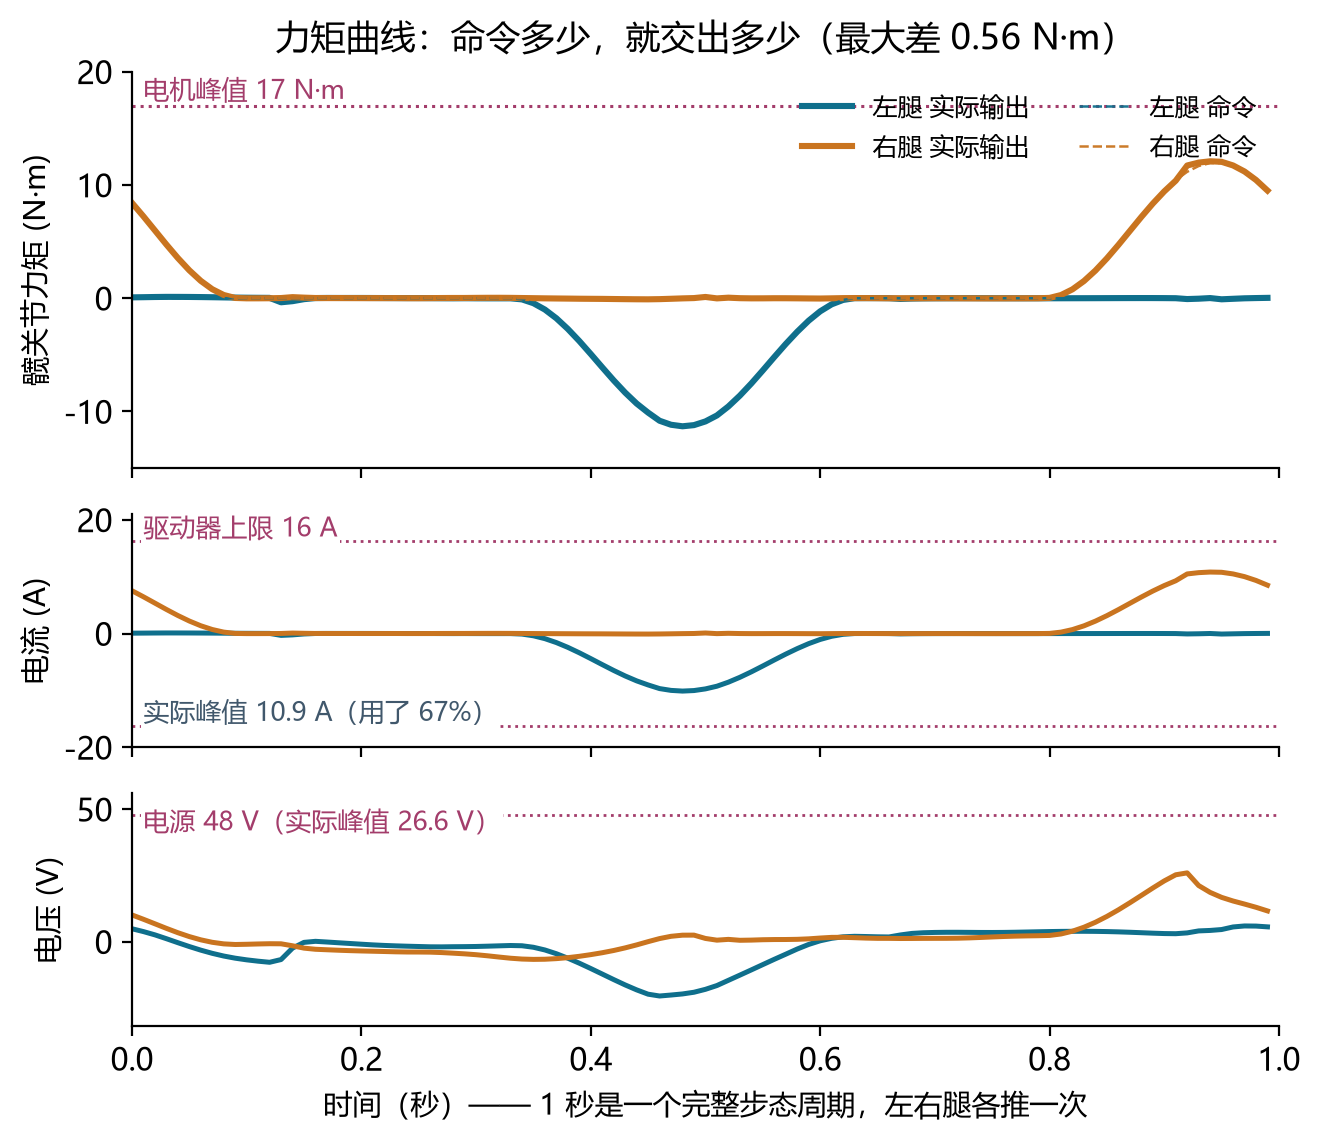
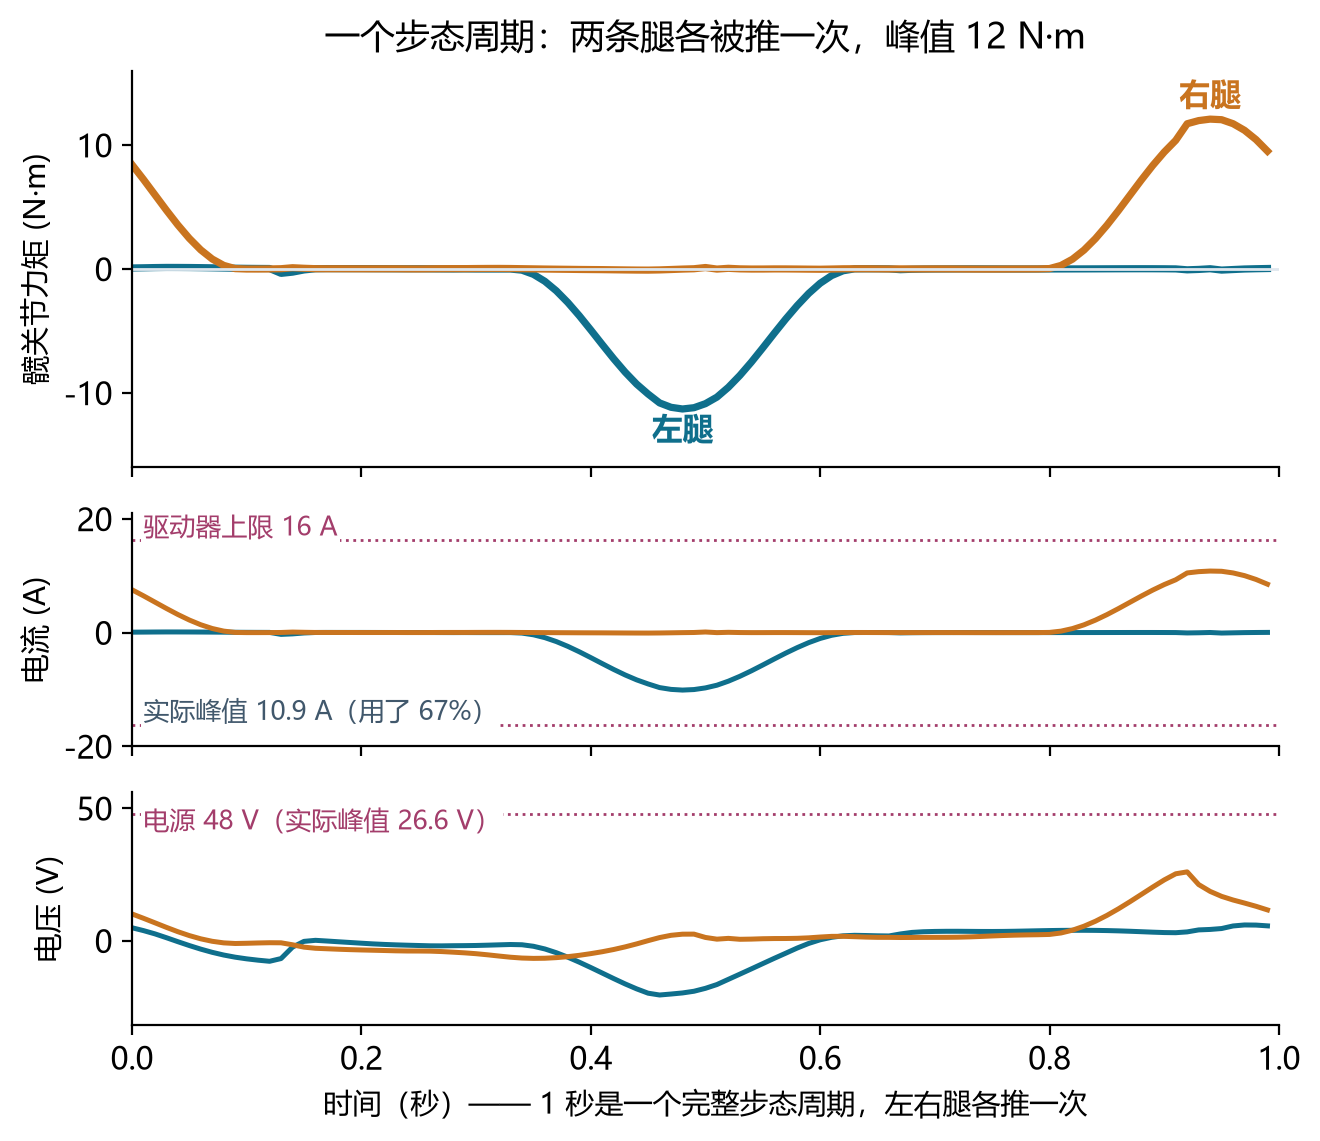
docs: 力矩图去掉命令线，力矩-转速图重画
第一张只画实际交付的力矩，两条腿直接标在曲线上，不再画命令虚线和图例；命令跟随误差
(0.56 N·m) 从正文里去掉，需要时看代码里的日志。

第二张原来有一条没有意义的竖虚线、两处箭头和满屏标注。改成：能力区域淡色填充 + 一条
连续的能力线，运行点小点，只留两处说明（17 N·m 是限流、410 转/分是空载），刻度取整。

diff --git a/scripts/make_figures.py b/scripts/make_figures.py
@@ -59,16 +59,18 @@ def curve(out):
     fig, axs = plt.subplots(3, 1, figsize=(7.4, 6.2), sharex=True,
                             gridspec_kw={"height_ratios": [1.7, 1, 1], "hspace": 0.16})
     ax = axs[0]
-    ax.plot(t, got[:, 0], color=BLUE, lw=2.2, label="左腿 实际输出")
-    ax.plot(t, got[:, 1], color=ORANGE, lw=2.2, label="右腿 实际输出")
-    ax.plot(t, cmd[:, 0], ls="--", color=BLUE, lw=0.9, alpha=0.95, label="左腿 命令")
-    ax.plot(t, cmd[:, 1], ls="--", color=ORANGE, lw=0.9, alpha=0.95, label="右腿 命令")
-    ax.axhline(TAU_PEAK, ls=":", color=RED, lw=1.1)
-    ax.text(0.01, TAU_PEAK + 0.6, "电机峰值 17 N·m", fontsize=9.5, color=RED)
-    ax.set_ylim(-15, 20)
+    ax.plot(t, got[:, 0], color=BLUE, lw=2.6)
+    ax.plot(t, got[:, 1], color=ORANGE, lw=2.6)
+    ax.axhline(0, color="#dfe7ee", lw=1)
+    i_l = int(np.argmin(got[:, 0]))
+    i_r = int(np.argmax(got[:, 1]))
+    ax.text(t[i_l], got[i_l, 0] - 2.4, "左腿", color=BLUE, fontsize=11, fontweight="bold",
+            ha="center")
+    ax.text(t[i_r], got[i_r, 1] + 1.2, "右腿", color=ORANGE, fontsize=11, fontweight="bold",
+            ha="center")
+    ax.set_ylim(-16, 16)
     ax.set_ylabel("髋关节力矩 (N·m)")
-    ax.legend(loc="upper right", fontsize=9, ncol=2)
-    ax.set_title("力矩曲线：命令多少，就交出多少（最大差 0.56 N·m）", pad=8)
+    ax.set_title("一个步态周期：两条腿各被推一次，峰值 12 N·m", pad=8)
 
     ax = axs[1]
     ax.plot(t, cur[:, 0], color=BLUE, lw=1.8)
@@ -104,24 +106,64 @@ def envelope(out):
     tau = np.abs(np.asarray(tr["delivered_hinge_torque"], float)[:n]).max(axis=1)
     spd = np.abs(np.asarray(tr["joint_speed"], float)[:n]).max(axis=1) * RPM
 
-    fig, ax = plt.subplots(figsize=(6.8, 4.0))
+    fig, ax = plt.subplots(figsize=(6.8, 3.9))
     kn = np.linspace(0, RPM_KNEE, 60)
-    fall = np.linspace(0, RPM_NOLOAD, 200)
-    ax.plot(np.r_[kn, fall], np.r_[np.full(len(kn), TAU_PEAK),
-                                   TAU_PEAK * (1 - fall / RPM_NOLOAD) / (1 - RPM_KNEE / RPM_NOLOAD)],
-            color=RED, lw=2.0, label="电机能给的力矩（厂家曲线）")
-    ax.plot([0, 0], [0, STALL], color=RED, lw=2.0, ls=":")     # 被限流截掉的部分
-    ax.scatter(spd, tau, s=9, color=ORANGE, alpha=0.6, label="仿真里的实际运行点")
-    ax.set_xlim(0, RPM_NOLOAD * 1.06)
+    fall = np.linspace(RPM_KNEE, RPM_NOLOAD, 200)
+    xs = np.r_[kn, fall]
+    ys = np.r_[np.full(len(kn), TAU_PEAK),
+               TAU_PEAK * (1 - fall / RPM_NOLOAD) / (1 - RPM_KNEE / RPM_NOLOAD)]
+    ax.fill_between(xs, 0, ys, color=ORANGE, alpha=0.10, lw=0)
+    ax.plot(xs, ys, color=ORANGE, lw=2.4)
+    ax.scatter(spd, tau, s=9, color=BLUE, alpha=0.38, lw=0)
+    ax.text(8, TAU_PEAK - 2.2, "17 N·m：驱动器限流", fontsize=10.5, color=ORANGE)
+    ax.text(322, 2.6, "410 转/分 = 空载", fontsize=9.5, color="#5b7285", ha="left")
+    ax.text(104, 3.2, "仿真里的运行点", fontsize=10, color=BLUE)
+    ax.set_xlim(0, RPM_NOLOAD * 1.02)
     ax.set_ylim(0, 20)
-    ax.set_xlabel("髋关节转速（转/分）—— 越快越抬不动")
+    ax.set_yticks([0, 5, 10, 15, 20])
+    ax.set_yticklabels(["0", "5", "10", "15", "20"])
+    ax.set_xlabel("髋关节转速（转/分）")
     ax.set_ylabel("能输出的力矩 (N·m)")
-    ax.set_title("转速越快，能给的力矩越小；我们的运行点都在左下角低速区", pad=8)
-    ax.annotate("17 N·m 是驱动器限流\n不是电机极限", xy=(60, TAU_PEAK), xytext=(120, 18.2),
-                fontsize=9.5, color=RED, arrowprops=dict(arrowstyle="->", color=RED, lw=1))
-    ax.annotate("410 转/分时\n一个力矩都出不了", xy=(RPM_NOLOAD, 0.4), xytext=(300, 6.5),
-                fontsize=9.5, color="#41586c", arrowprops=dict(arrowstyle="->", color=GREY, lw=1))
-    ax.legend(loc="upper right", fontsize=9)
+    ax.set_title("转速越快，能出的力矩越小；仿真只用到最左边一小段", pad=8)
+    fig.savefig(out / "tor_envelope.png", bbox_inches="tight")
+    plt.close(fig)
+
+
+def rating(out):
+    fig, ax = plt.subplots(figsize=(7.0, 3.0))
+    cats = ["电机峰值\n（只能短时）", "我们的处方", "连续工作上限\n（超过会发热）"]
+    vals = [TAU_PEAK, 12.0, TAU_CONT]
+    cols = ["#dfe7ee", ORANGE, "#f0d5dc"]
+    y = [2, 1, 0]
+    ax.barh(y, vals, color=cols, edgecolor=[GREY, ORANGE, RED], lw=1.4, height=0.55)
+    for yy, v, c in zip(y, vals, [GREY, ORANGE, RED]):
+        ax.text(v + 0.4, yy, f"{v:g} N·m", va="center", fontsize=12, fontweight="bold", color=c)
+    ax.set_yticks(y)
+    ax.set_yticklabels(cats, fontsize=10.5)
+    ax.set_xlim(0, 21)
+    ax.set_xlabel("髋关节力矩 (N·m)")
+    ax.set_title("处方 12 N·m：是峰值的七成，但已是连续上限的两倍", pad=8)
+    ax.spines["left"].set_visible(False)
+    ax.tick_params(axis="y", length=0)
+    fig.savefig(out / "tor_rating.png", bbox_inches="tight")
+    plt.close(fig)
+
+
+def main() -> int:
+    ap = argparse.ArgumentParser()
+    ap.add_argument("--out", default=str(Path(__file__).resolve().parent.parent / "docs" / "images"))
+    a = ap.parse_args()
+    out = Path(a.out)
+    out.mkdir(parents=True, exist_ok=True)
+    curve(out)
+    envelope(out)
+    rating(out)
+    print("wrote 3 torque figures to", out)
+    return 0
+
+
+if __name__ == "__main__":
+    raise SystemExit(main())
     fig.savefig(out / "tor_envelope.png", bbox_inches="tight")
     plt.close(fig)
 

diff --git a/README.md b/README.md
@@ -14,7 +14,7 @@
 
 一个步态周期（1 秒）里：
 
-- **上面**：实线是电机实际输出的力矩，虚线是命令，两者最大只差 **0.56 N·m**；左右腿各推一次，峰值 12 N·m。
+- **上面**：电机实际输出的力矩，两条腿各被推一次，峰值 12 N·m。
 - **中间**：对应的电流，峰值 **10.9 A**，是驱动器上限 16 A 的 **67%**。
 - **下面**：端电压，峰值 **26.6 V**，只用了 48 V 电源的一半。
 
